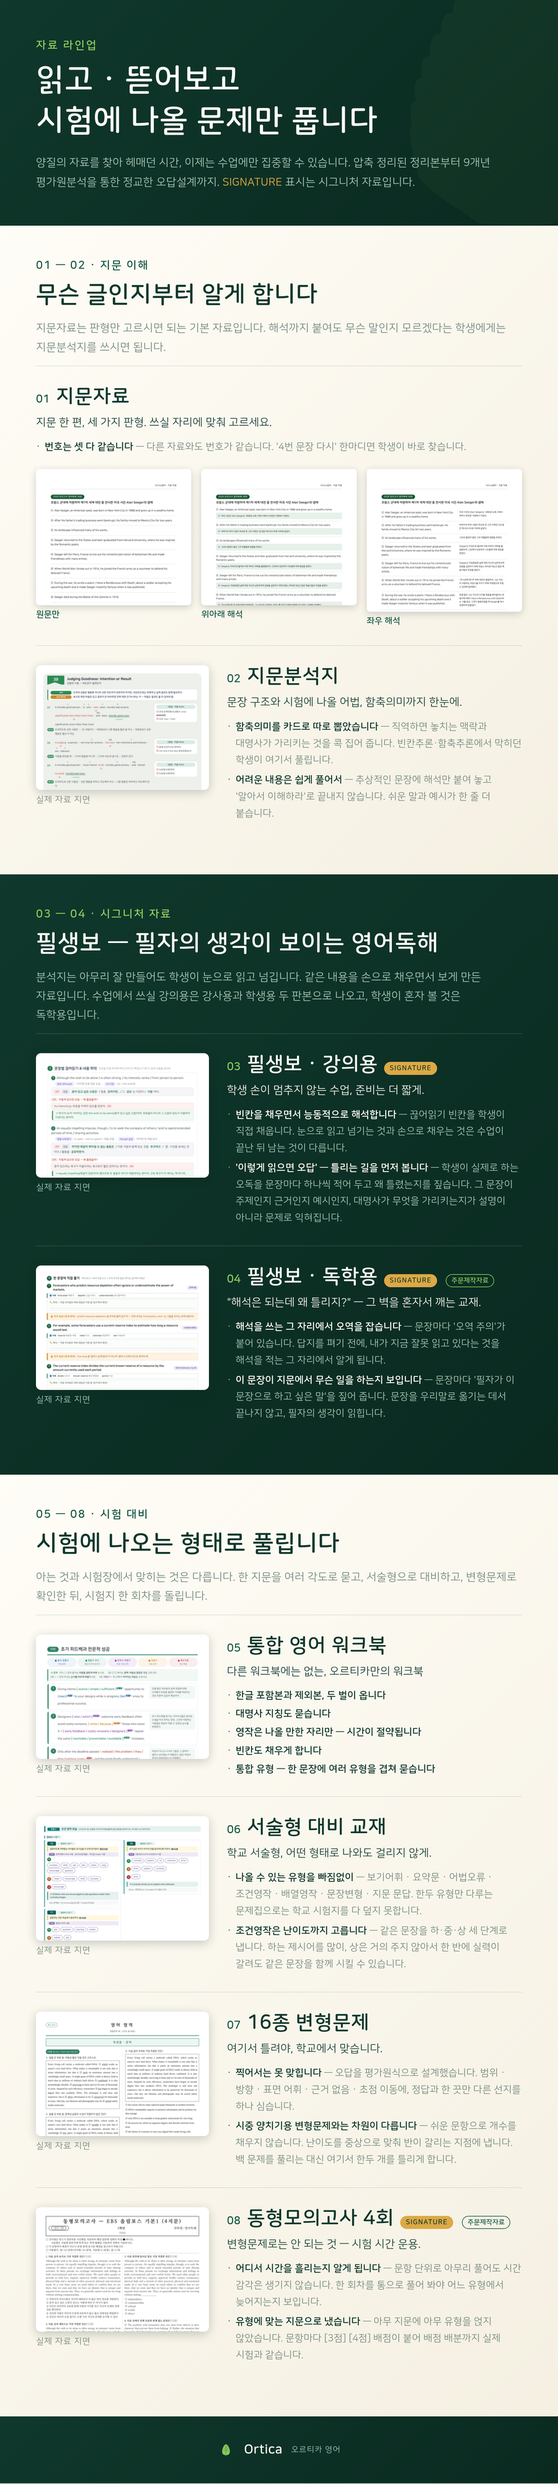
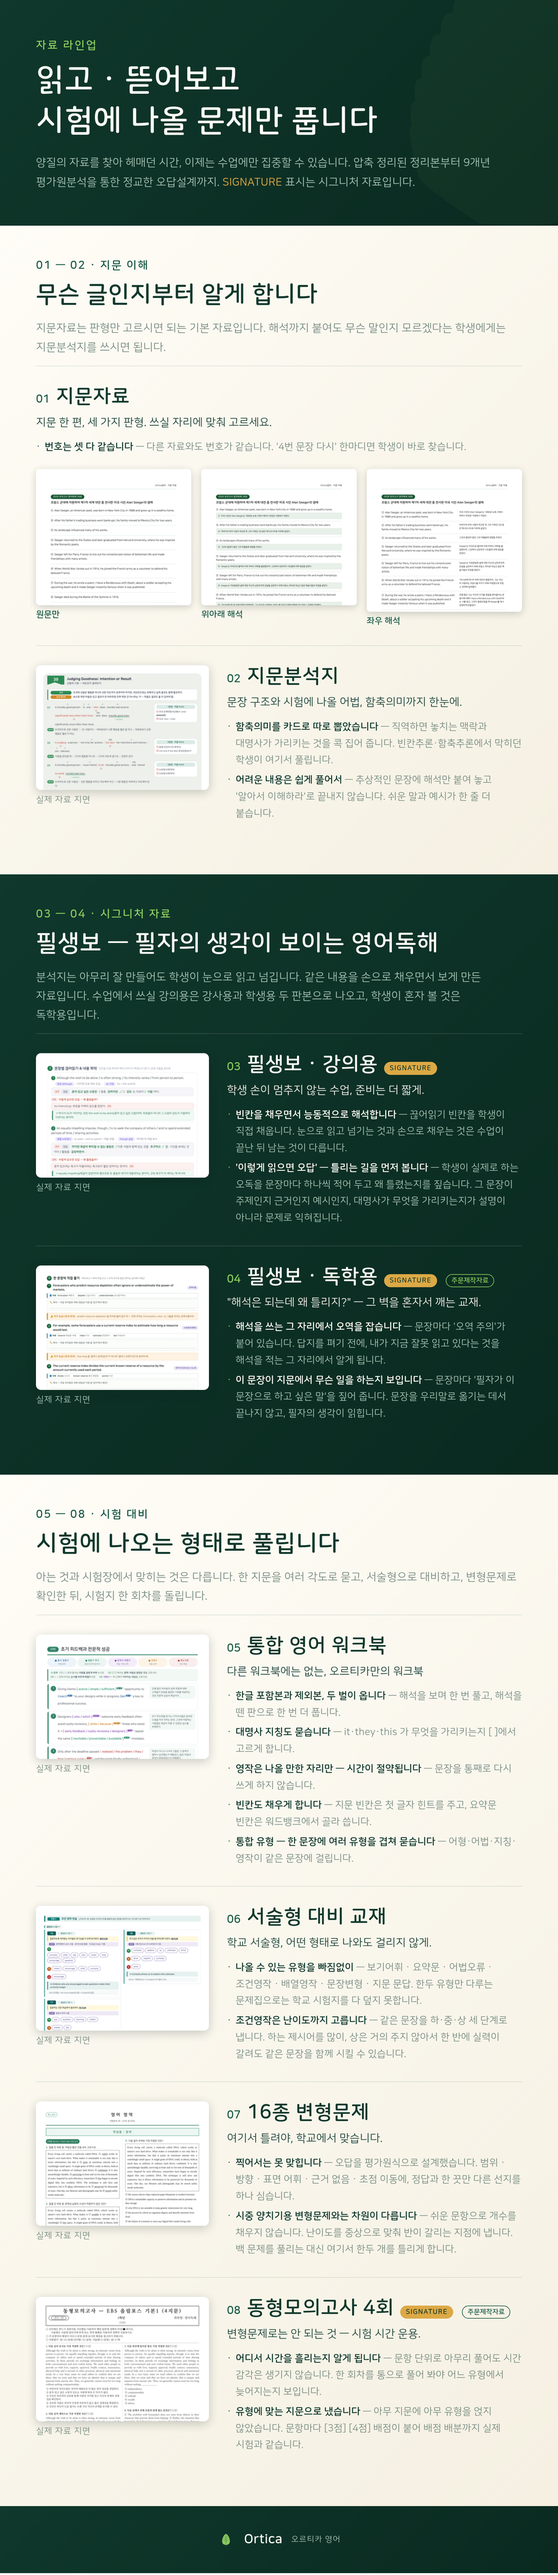
라인업에서 다섯 줄짜리도 다른 줄과 같은 모양으로
소제목만 굵게 늘어놓으니 그 자료만 목록에서 다른 모양으로 튀었다. 생김새는
'소제목 — 설명' 그대로 두고, 줄이 셋을 넘으면 설명을 첫 문장까지만 자른다.

first_sentence 는 마침표 뒤에서만 자른다. 종결어미 뒤 공백에서 자르면
'~합니다 그리고' 같은 자리에서 문장 가운데가 잘린다.

Claude-Session: https://claude.ai/code/session_015BpsJgtaBR6xs1aCKnE4xw

diff --git a/brand/build.py b/brand/build.py
@@ -361,6 +361,15 @@ def build_favicon(size: int) -> str:
 
 
 # ── 라인업 (한 장) ────────────────────────────────────────────────────────
+def first_sentence(text: str) -> str:
+    """설명의 첫 문장만. 마침표 뒤에서만 자른다.
+
+    '~합니다 그리고' 처럼 종결어미 뒤 공백에서 자르면 문장 가운데가 잘린다.
+    """
+    parts = re.split(r"(?<=[.!?])\s+", text.strip(), maxsplit=1)
+    return parts[0]
+
+
 def lineup_rows(items, t: dict[str, str], u: float, thumb_w: int = 320,
                 points_n: int = 2) -> str:
     """자료 목록 줄. 왼쪽에 실물 썸네일, 오른쪽에 이름과 한 줄."""
@@ -399,23 +408,16 @@ def lineup_rows(items, t: dict[str, str], u: float, thumb_w: int = 320,
         # 사진 밑에 '원문만'이라 써 놓고 아래에 또 '원문만 —' 을 쓰면 같은 말이 두 번이다.
         src_pts = it.points[len(it.thumbs):] if it.thumbs else it.points
         n = it.lineup_points or points_n
-        if n > 2:
-            # 셋 이상이면 소제목만. 설명까지 붙이면 그 줄만 목록을 잡아먹는다.
-            pts = "".join(
-                f'<div class="sans" style="font-size:{u * 1.8:.0f}px;color:{t["fg"]};'
-                f'line-height:1.6;padding-left:{u * 1.6:.0f}px;position:relative;'
-                f'word-break:keep-all;margin-top:{u * .5:.0f}px;font-weight:700">'
-                f'<span style="position:absolute;left:0;color:{t["accent"]};'
-                f'font-weight:400">·</span>{head}</div>'
-                for head, *_ in src_pts[:n])
-        else:
-            pts = "".join(
-                f'<div class="sans" style="font-size:{u * 1.8:.0f}px;color:{t["muted"]};'
-                f'line-height:1.68;padding-left:{u * 1.6:.0f}px;position:relative;'
-                f'word-break:keep-all;margin-top:{u * .6:.0f}px">'
-                f'<span style="position:absolute;left:0;color:{t["accent"]}">·</span>'
-                f'<b style="color:{t["fg"]};font-weight:700">{head}</b> — {desc}</div>'
-                for head, desc, *_ in src_pts[:n])
+        # 줄이 셋을 넘으면 설명을 첫 문장까지만 자른다. 생김새는 그대로 두어야
+        # 목록에서 그 자료만 다른 모양으로 튀지 않는다.
+        pts = "".join(
+            f'<div class="sans" style="font-size:{u * 1.8:.0f}px;color:{t["muted"]};'
+            f'line-height:1.68;padding-left:{u * 1.6:.0f}px;position:relative;'
+            f'word-break:keep-all;margin-top:{u * .6:.0f}px">'
+            f'<span style="position:absolute;left:0;color:{t["accent"]}">·</span>'
+            f'<b style="color:{t["fg"]};font-weight:700">{head}</b> — '
+            f'{first_sentence(desc) if n > 2 else desc}</div>'
+            for head, desc, *_ in src_pts[:n])
 
         head_el = f"""<div style="display:flex;align-items:baseline;flex-wrap:wrap;
                  gap:{u * .8:.0f}px {u * 1.1:.0f}px">

diff --git a/brand/README.md b/brand/README.md
@@ -223,9 +223,9 @@ posts/03-pilsaengbo-class.md      본문 원고 초안
   해서 `figures=3`).
 - `MAX_POINTS = 4` — 특징은 네 줄까지. 자료마다 다르게 하려면 `catalog.py`
   의 `max_points` 로 덮어씁니다(필생보 강의용은 여섯, 통합 워크북은 다섯).
-- 라인업 줄에는 특징을 **둘**만 설명까지 붙여 보여 줍니다. `lineup_points` 로
-  더 많이 보이게 하면 **소제목만** 짧게 늘어놓습니다(통합 워크북은 다섯).
-  설명까지 다 넣으면 그 줄이 목록을 잡아먹습니다.
+- 라인업 줄에는 특징을 **둘**만 보여 줍니다. `lineup_points` 로 더 많이
+  보이게 하면 설명을 **첫 문장까지만** 잘라 붙입니다(통합 워크북은 다섯).
+  생김새는 그대로 둡니다 — 그 자료만 다른 모양이면 목록에서 튑니다.
 
 특징 설명도 카드마다 250~330자 안에 들어오게 씁니다. 한 카드만 길면 목록으로
 늘어놨을 때 그 카드만 눈에 걸립니다.
